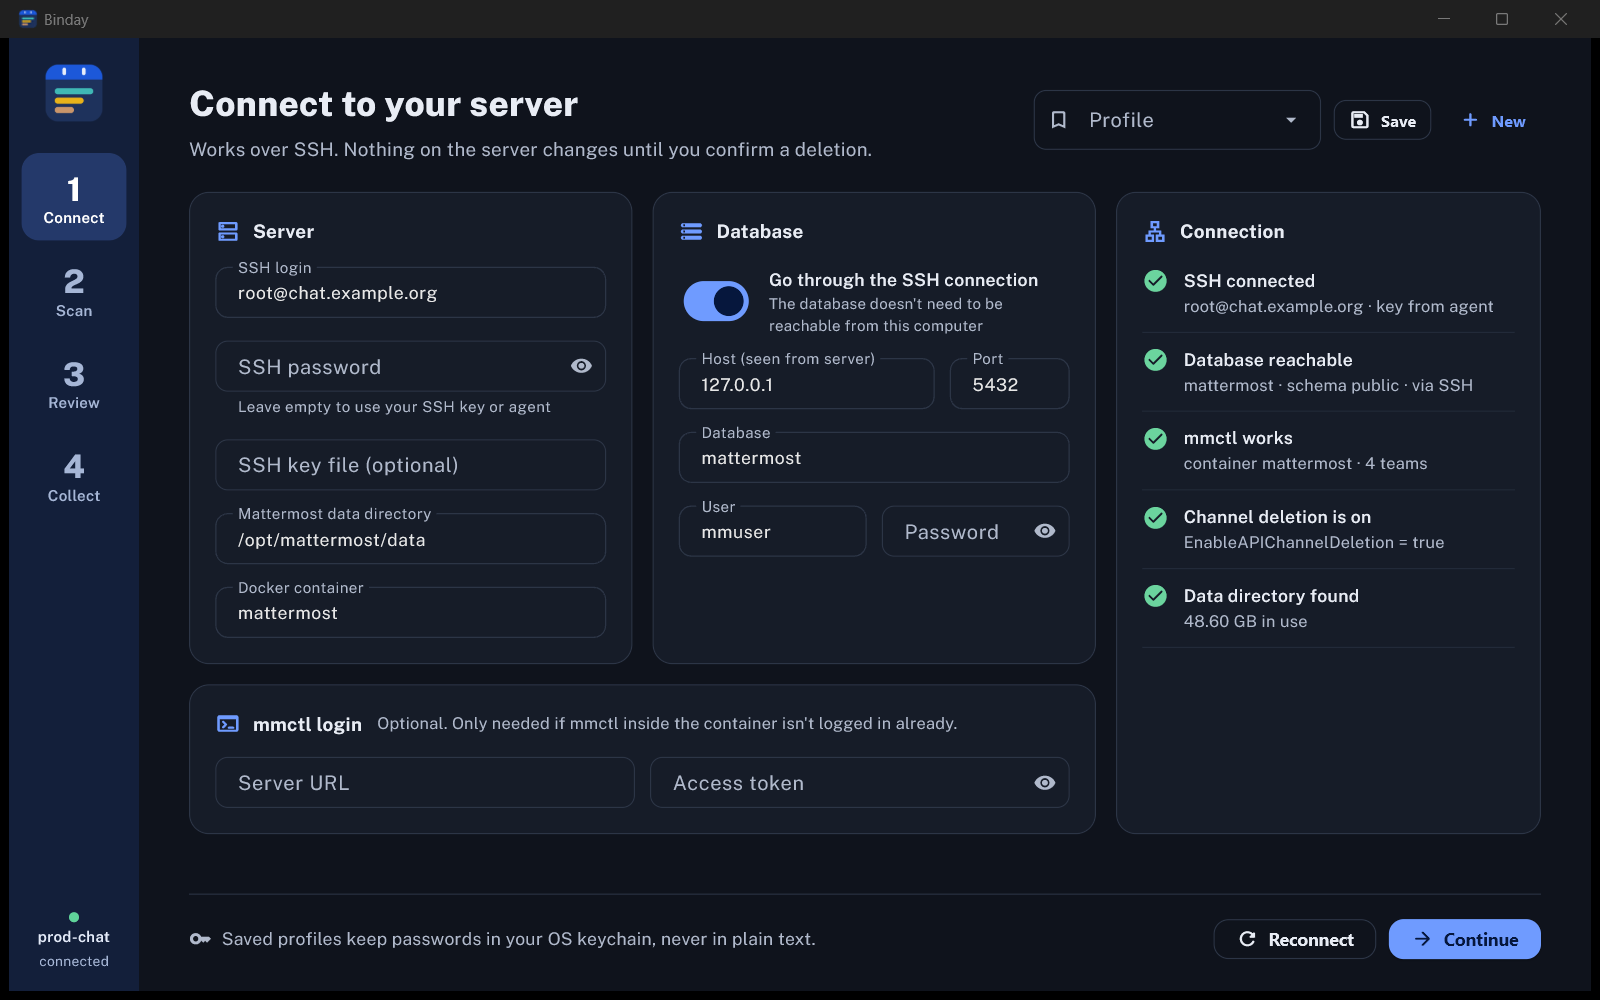
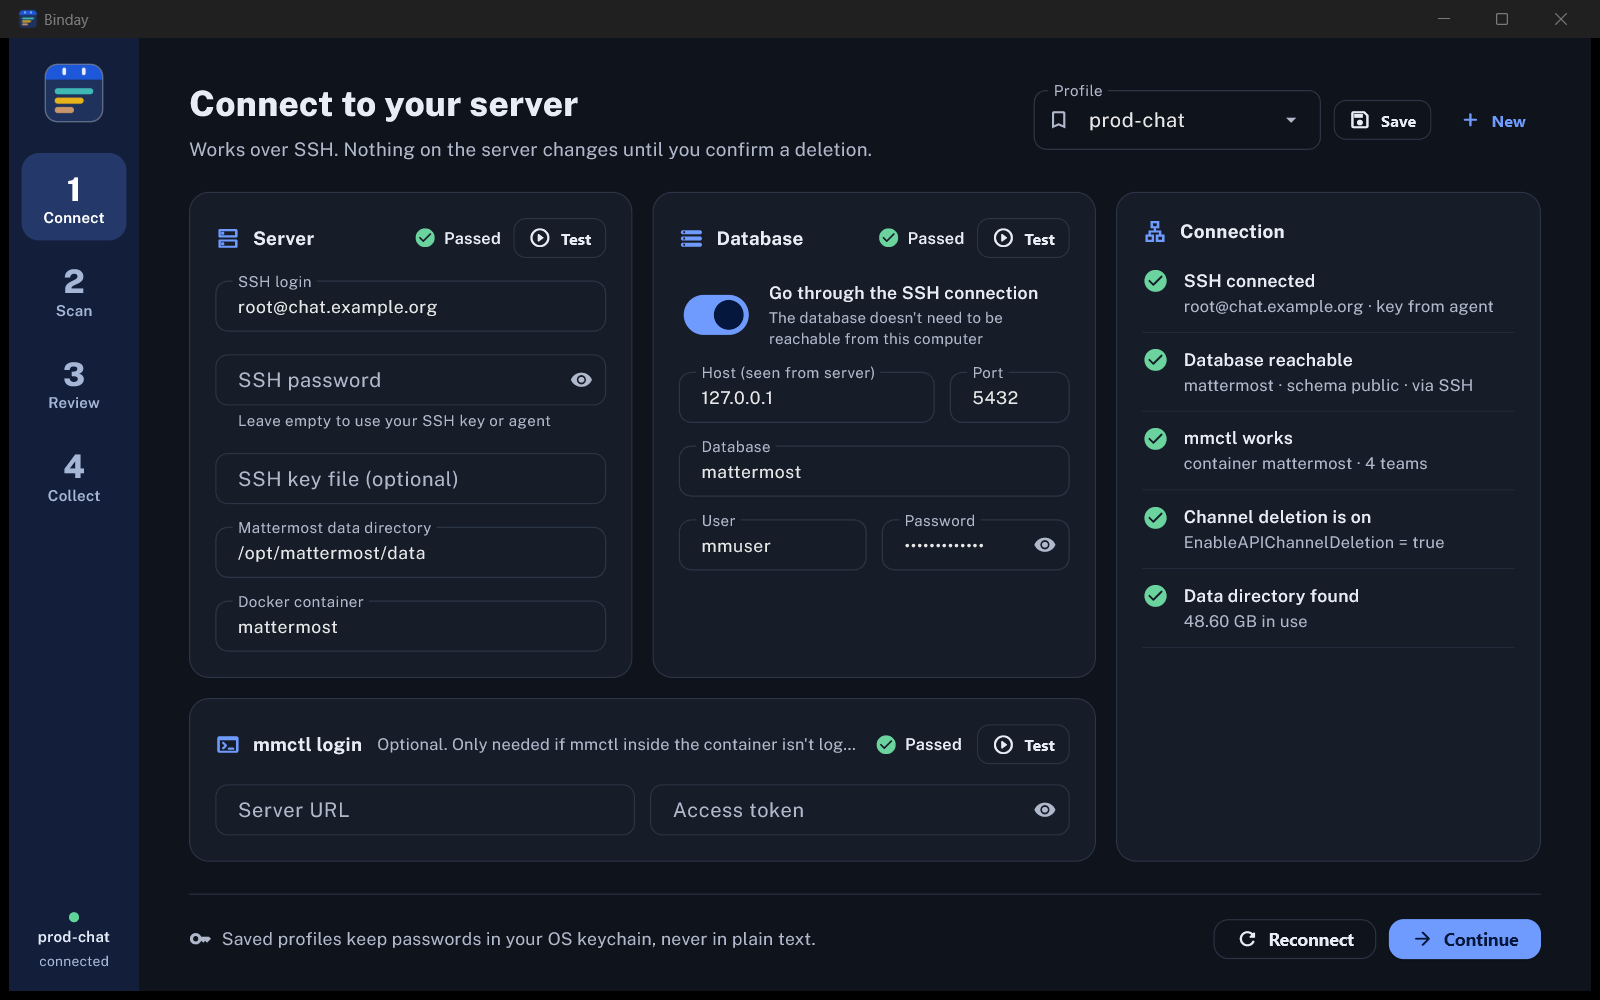
Refresh README screenshots; outline the rail mark
- Recaptured every README screenshot from the demo: all ten bins,
  section filters, database rows in the legend
- The rail mark gets a 1px light outline on its tile edge, so the navy
  tile no longer merges into the navy rail (light and dark themes)
- Running from source shows Binday's icon in the title bar
- Rail server name stays on one line (ellipsis, full name on hover)
- Demo uses one consistent made-up profile (prod-chat, chat.example.org)

diff --git a/gui.py b/gui.py
@@ -400,7 +400,8 @@ class PurgeApp:
             self._fill({"ssh": "root@chat.example.org", "data_dir": "/opt/mattermost/data", "container": "mattermost",
                         "db_host": "127.0.0.1", "db_port": "5432", "db_name": "mattermost", "db_user": "mmuser",
                         "db_password": "demo-password", "ssh_password": ""})
-            self.f_profile.value = "chat.example.org"
+            self.f_profile.options = [ft.DropdownOption(key="prod-chat", text="prod-chat")]
+            self.f_profile.value = "prod-chat"
         else:
             self._refresh_profiles()
         self.paint()
@@ -449,10 +450,16 @@ class PurgeApp:
         status = []
         if self.server_name:
             status = [ft.Container(width=8, height=8, border_radius=4, bgcolor="#5FD39A" if self.server_state == "connected" else RAIL_INK),
-                      T(self.server_name, 12, ft.FontWeight.W_600, RAIL_INK, text_align=ft.TextAlign.CENTER),
+                      ft.Container(T(self.server_name, 12, ft.FontWeight.W_600, RAIL_INK, text_align=ft.TextAlign.CENTER,
+                                     max_lines=1, overflow=ft.TextOverflow.ELLIPSIS), width=88, tooltip=self.server_name),
                       T(self.server_state, 11, color=RAIL_DIM)]
         return ft.Column(horizontal_alignment=ft.CrossAxisAlignment.CENTER, spacing=4, controls=[
-            ft.Container(ft.Image(src="brand/mark-256.png", width=52, height=52, tooltip="Binday for Mattermost"),
+            ft.Container(ft.Stack(width=52, height=52, controls=[
+                ft.Image(src="brand/mark-256.png", width=52, height=52, tooltip="Binday for Mattermost"),
+                # the mark's navy tile sits on the navy rail: a hairline on the tile edge keeps its shape
+                # (tile = 13..243 of 256 px, corner radius 200/1024 of the full mark)
+                ft.Container(left=2.6, top=2.6, width=46.8, height=46.8, border_radius=10.2,
+                             border=ft.Border.all(1, ft.Colors.with_opacity(0.35, RAIL_INK)))]),
                          margin=ft.Margin.only(bottom=18)),
             *steps, ft.Container(expand=True),
             ft.Column(status, spacing=3, horizontal_alignment=ft.CrossAxisAlignment.CENTER, width=88)])
@@ -1328,6 +1335,9 @@ def main(page: ft.Page, demo: bool = False):
     logging.basicConfig(level=logging.INFO, format="%(asctime)s [%(levelname)s] %(message)s",
                         handlers=[logging.FileHandler(LOG_FILE, encoding="utf-8")], force=True)
     page.title = "Binday"
+    icon = Path(__file__).parent / "assets" / "icon.ico"
+    if icon.exists():  # the built app has its own icon; this covers running from source
+        page.window.icon = str(icon)
     page.fonts = {"Public Sans": FONT_FILE}
     page.theme_mode = ft.ThemeMode.SYSTEM
     page.theme = ft.Theme(color_scheme=ft.ColorScheme(**LIGHT), font_family="Public Sans", use_material3=True)
@@ -1354,7 +1364,6 @@ def _arg(name):
 def _autoplay(app, screen):
     """Demo only: walk to a screen with synthetic data, for README screenshots (`--demo --demo-screen=review`)."""
     app.f_ssh.value = "root@chat.example.org"
-    app.f_profile.value = "prod-chat"
     app._connect_worker(app._form())
     if screen == "connect":
         return

diff --git a/DESIGN.md b/DESIGN.md
@@ -392,7 +392,7 @@ Confident, compact, full-weight labels.
 - **Checkbox:** 18px, 4px radius, 2px ink-2 border; checked fills blue with a white check. **Switch:** blue track, 46 by 28px.
 
 ### Navigation
-- **Rail:** 104px navy rail, app mark (44px rail-ink tile with `delete_sweep`) at top, four steps as calendar days: a 26px/800 numeral over a 12px/600 name. Upcoming steps rail-dim; done steps replace the numeral with a `check` pictogram in rail-ink; the active step sits on a rail-active 84px pill with white text; while collecting the numeral becomes a spinning `progress_activity`. Server name and a status dot (rail-signal when connected, rail-ink when busy) sit at the bottom. The rail locks while collecting.
+- **Rail:** 104px navy rail, the Binday mark (52px, `brand/mark-256.png`) at top with a 1px hairline in rail-ink at 35% on its tile edge, so the navy tile keeps its shape on the navy rail, four steps as calendar days: a 26px/800 numeral over a 12px/600 name. Upcoming steps rail-dim; done steps replace the numeral with a `check` pictogram in rail-ink; the active step sits on a rail-active 84px pill with white text; while collecting the numeral becomes a spinning `progress_activity`. Server name (one line, ellipsized, full name on hover) and a status dot (rail-signal when connected, rail-ink when busy) sit at the bottom. The rail locks while collecting.
 
 ### Load Bar (signature)
 A 20px, 6px-radius segmented bar, full width inside a panel, headed by the Display figure and a muted "of X found/planned" line, followed by a legend of swatch, name, bold count and muted size. On Review the segments are proportional to the selection with kept load hatched at the end; while collecting, each bin is a Line 2 track that fills in place; on Results unfilled remainder is hatched (skipped) or cross-hatched (failed). The same bar appears on Review, Confirm, Collecting and Results. Build in Flet as a `Row` of `Container`s with `expand` weights, `spacing=3`, clipped by a rounded parent.

diff --git a/README.md b/README.md
@@ -34,7 +34,7 @@ Mattermost's data retention is an Enterprise feature, so on **Team Edition** thi
 <p align="center">
   <picture>
     <source media="(prefers-color-scheme: dark)" srcset="assets/readme/review-dark.png">
-    <img src="assets/readme/review-light.png" alt="Binday's Review screen: 3.74 GB selected to reclaim, split into archived channels, deactivated users' DMs and orphaned files, with one channel kept" width="100%">
+    <img src="assets/readme/review-light.png" alt="Binday's Review screen: 6.09 GB selected to reclaim, split into channels, DMs, deleted messages, orphaned files, uploads, emoji and database rows, with one channel kept" width="100%">
   </picture>
 </p>
 <p align="center"><sub>Review: everything Binday found, sorted by size, split into bins. Untick anything you want to keep. Sample data.</sub></p>
@@ -55,7 +55,7 @@ Mattermost's data retention is an Enterprise feature, so on **Team Edition** thi
 <p align="center">
   <picture>
     <source media="(prefers-color-scheme: dark)" srcset="assets/readme/results-dark.png">
-    <img src="assets/readme/results-light.png" alt="Binday's Results screen: 3.66 GB collected, data directory from 48.60 GB to 44.94 GB, one skipped and one failed item with what to do" width="100%">
+    <img src="assets/readme/results-light.png" alt="Binday's Results screen: 6.01 GB collected, data directory from 48.60 GB to 42.59 GB, one skipped and one failed item with what to do" width="100%">
   </picture>
 </p>
 <p align="center"><sub>Results: what was collected, the data directory before and after, and every problem with its cause and next step. Sample data.</sub></p>
